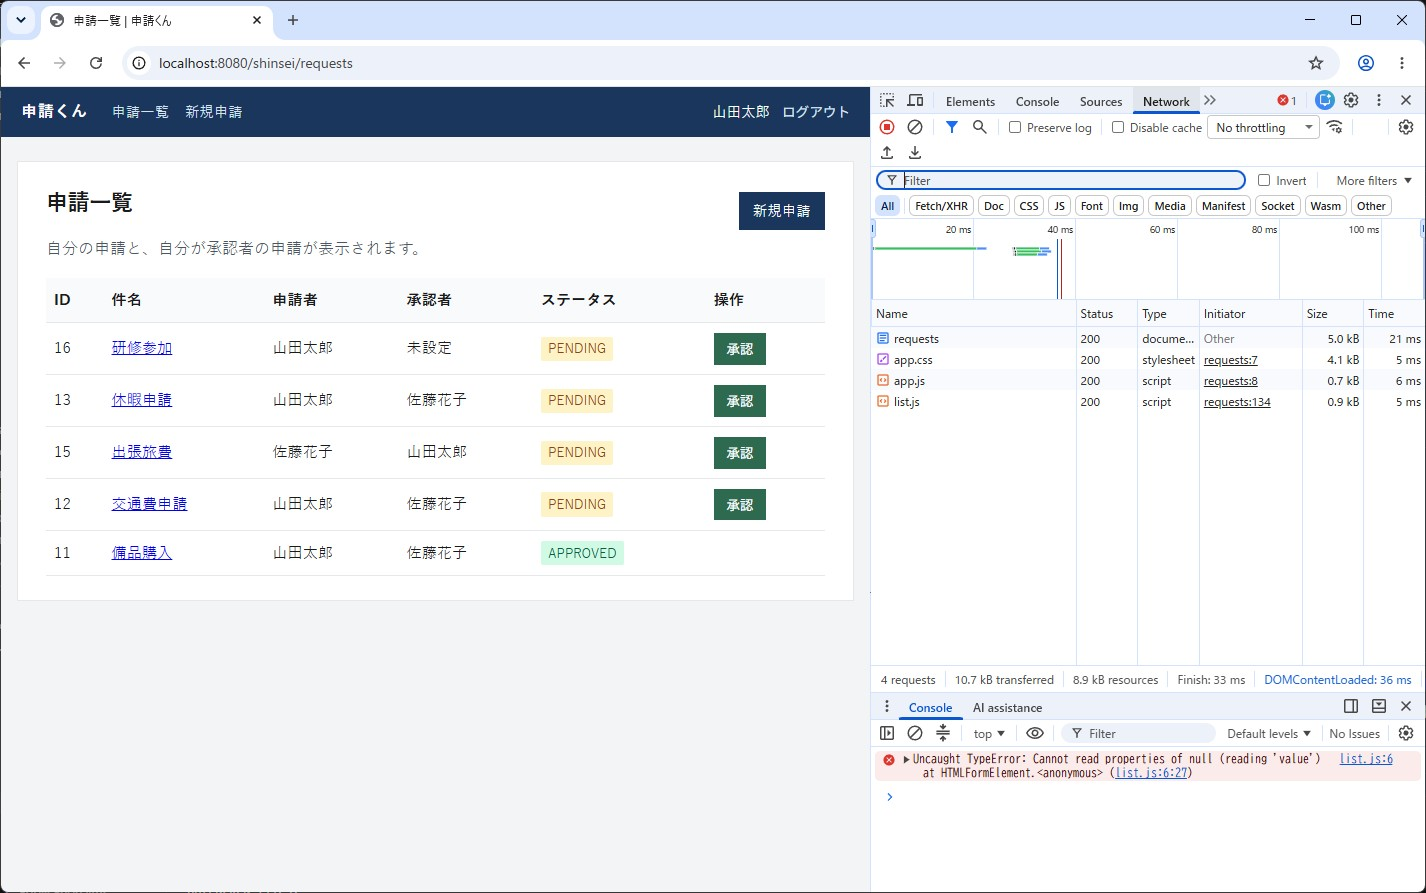
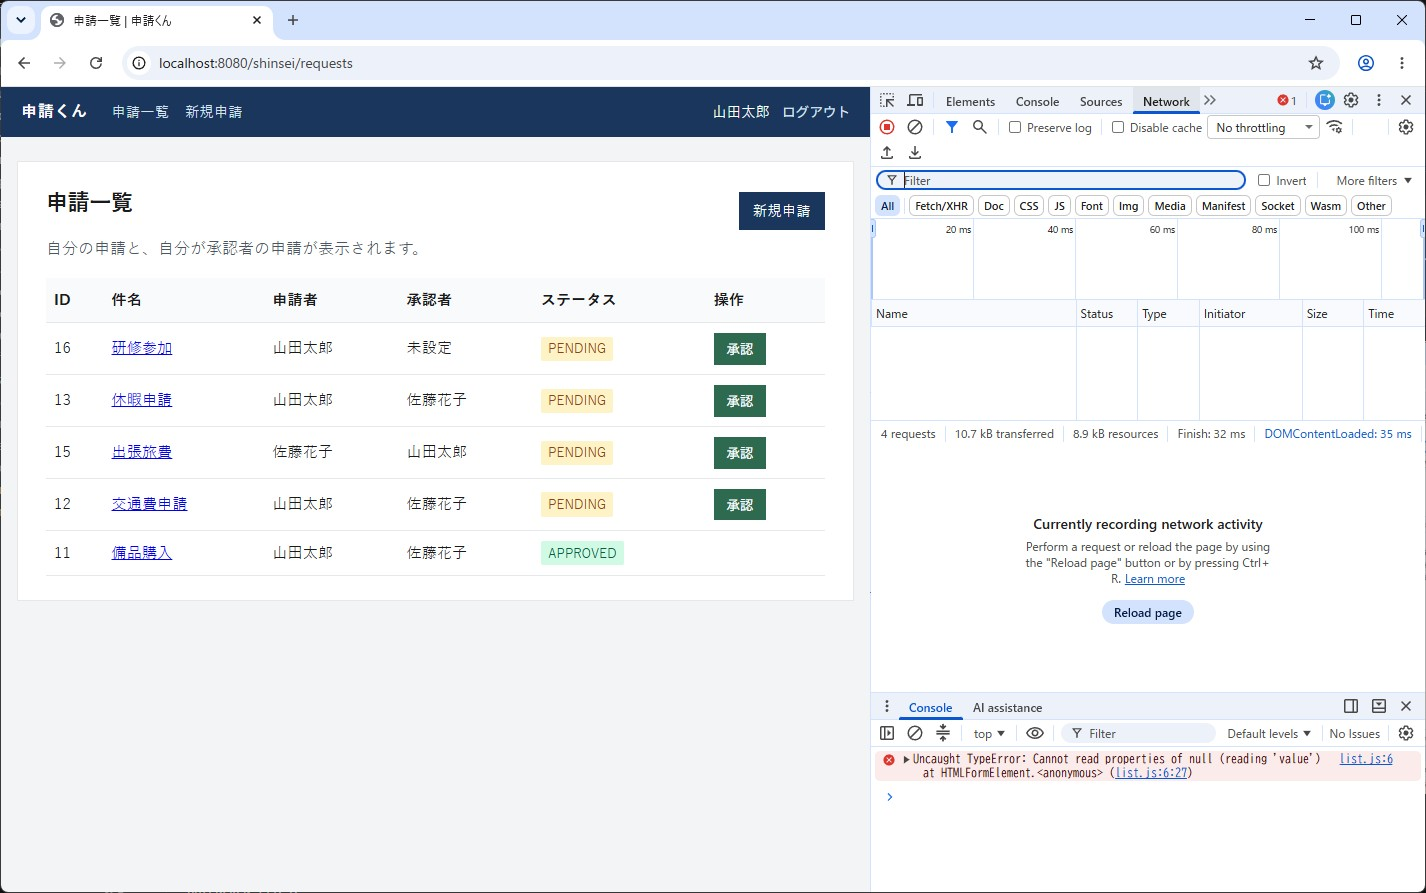
障害調査シナリオの構成を揃え、POST 無しの Network キャプチャをログ消去後に撮り直す。
一覧承認シナリオは先に見ることと原因を分離し、no-post 画像は承認前に Network ログを消す手順に変更した。

diff --git a/src/content/scenario.ts b/src/content/scenario.ts
@@ -44,7 +44,7 @@ export const scenarioTrack: Track = {
         },
         {
           type: "p",
-          text: "押した瞬間の Network タブを見ましょう。新しいリクエストが無ければ、バックエンドにも DB にも届いていません。",
+          text: "押した瞬間の Network タブを見ましょう。見づらいときは、ログを消してからもう一度押します。新しいリクエストが無ければ、バックエンドにも DB にも届いていません。",
         },
         {
           type: "callout",
@@ -57,7 +57,7 @@ export const scenarioTrack: Track = {
           kind: "screen",
           src: "/images/screen-network-no-post.jpg",
           alt: "承認を押したあとも新しいリクエストが無い Network タブ",
-          caption: "承認を押した直後の例です。POST /approve の行は増えていません。コンソールにエラーの印が出ています。",
+          caption: "ログを消してから承認を押した例です。リクエストの行は増えていません。コンソールにエラーの印が出ています。",
         },
         {
           type: "table",
@@ -158,6 +158,14 @@ export const scenarioTrack: Track = {
         },
         { type: "diagram", name: "stack-own" },
         {
+          type: "h2",
+          text: "このシナリオの原因",
+        },
+        {
+          type: "p",
+          text: "このシナリオでは POST が 500 でした。操作時刻のログに NullPointerException がありました。",
+        },
+        {
           type: "code",
           title: "操作時刻のサーバログ（申請くん）",
           lang: "text",
@@ -176,10 +184,6 @@ export const scenarioTrack: Track = {
           code: `if (!request.getApproverId().equals(approverId)) {
   throw new ForbiddenException("承認権限がありません");
 }`,
-        },
-        {
-          type: "h2",
-          text: "このシナリオの原因",
         },
         {
           type: "p",
@@ -230,6 +234,12 @@ export const scenarioTrack: Track = {
           text: "先に見ること",
         },
         {
+          type: "callout",
+          kind: "note",
+          title: "前のシナリオとの違い",
+          text: "「エラーが発生しました」で POST が 500 なら、先にスタックです。画面に業務の一文があり ERROR が無いなら、先にその一文で検索しましょう。",
+        },
+        {
           type: "p",
           text: "例外が出ていないので、スタックの at 行は使えません。画面に出ている文言そのものを、ソース全体から検索しましょう。",
         },
@@ -244,6 +254,14 @@ export const scenarioTrack: Track = {
           ],
         },
         {
+          type: "h2",
+          text: "このシナリオの原因",
+        },
+        {
+          type: "p",
+          text: "「この申請は承認できません」で検索すると、Controller の分岐に当たりました。",
+        },
+        {
           type: "code",
           title: "検索で当たった箇所（申請くん）",
           lang: "java",
@@ -254,10 +272,6 @@ if (!"PENDING".equals(request.getStatus())) {
   return "redirect:/requests/" + id;
 }
 requestService.approve(id, user.getId());`,
-        },
-        {
-          type: "h2",
-          text: "このシナリオの原因",
         },
         {
           type: "p",
@@ -276,12 +290,6 @@ requestService.approve(id, user.getId());`,
           kind: "note",
           title: "ソースに無い文言",
           text: "画面の文が、コードにもプロパティファイルにも無いときは、Java が直書きしていません。メッセージ用のテーブル、ワークフローや認証サーバの応答 JSON を、Network タブと DB で見ましょう。応答の message をそのまま出していることがあります。",
-        },
-        {
-          type: "callout",
-          kind: "note",
-          title: "前のシナリオとの違い",
-          text: "「エラーが発生しました」で POST が 500 なら、先にスタックです。画面に業務の一文があり ERROR が無いなら、先にその一文で検索しましょう。",
         },
         { type: "quiz", id: "sc-message" },
       ],
@@ -324,6 +332,10 @@ requestService.approve(id, user.getId());`,
           text: "応答は成功しています。フロントや CSS の問題でも、500 でもありません。実行された SQL を見て、同じ条件で今つないでいる DB の行を数えましょう。",
         },
         { type: "diagram", name: "front-back", caption: "データは DB にある。実行された SQL の条件で、今の DB を見る。" },
+        {
+          type: "h2",
+          text: "このシナリオの原因",
+        },
         {
           type: "p",
           text: "検証用環境の t_request を、ログインユーザの ID で検索すると 0 件でした。ローカル環境の DB には 3 件あります。SQL の WHERE は同じでも、行が無ければ一覧は空です。",
@@ -387,6 +399,10 @@ requestService.approve(id, user.getId());`,
         },
         { type: "diagram", name: "env-diff", caption: "コードが同じでも、届く道が違うことがあります。" },
         {
+          type: "h2",
+          text: "このシナリオの原因",
+        },
+        {
           type: "p",
           text: "検証用環境のサーバのポート 8080 が、社内ネットワークから閉じられていました。ブラウザはサーバまで届かず、アプリは何も記録しません。",
         },
@@ -445,7 +461,17 @@ requestService.approve(id, user.getId());`,
           type: "p",
           text: "HTML が 200 なら、一覧の Controller は動いています。Network タブで CSS / JS の行を見ましょう。",
         },
+        {
+          type: "callout",
+          kind: "note",
+          title: "テンプレート側のこともある",
+          text: "href が /css/app.css のままで、コンテキストパス /shinsei が付いていない、というずれもあります。それでも先に Network タブの 404 URL を見ましょう。",
+        },
         { type: "diagram", name: "not-found", caption: "HTML が 200 でも、静的ファイルだけ 404 のことがあります。" },
+        {
+          type: "h2",
+          text: "このシナリオの原因",
+        },
         {
           type: "p",
           text: "/shinsei/css/app.css が 404 でした。手前の nginx が /css/ を別ディレクトリに振っており、コンテキストパス付きの実体とずれていました。アプリの Java は直す場所ではありません。",
@@ -457,12 +483,6 @@ requestService.approve(id, user.getId());`,
             "HTML 200 と CSS 404 が同時にある。層が違う",
             "手前に Apache / nginx があるなら、location や alias を疑う",
           ],
-        },
-        {
-          type: "callout",
-          kind: "note",
-          title: "テンプレート側のこともある",
-          text: "href が /css/app.css のままで、コンテキストパス /shinsei が付いていない、というずれもあります。それでも先に Network タブの 404 URL を見ましょう。",
         },
         { type: "quiz", id: "sc-http" },
       ],
